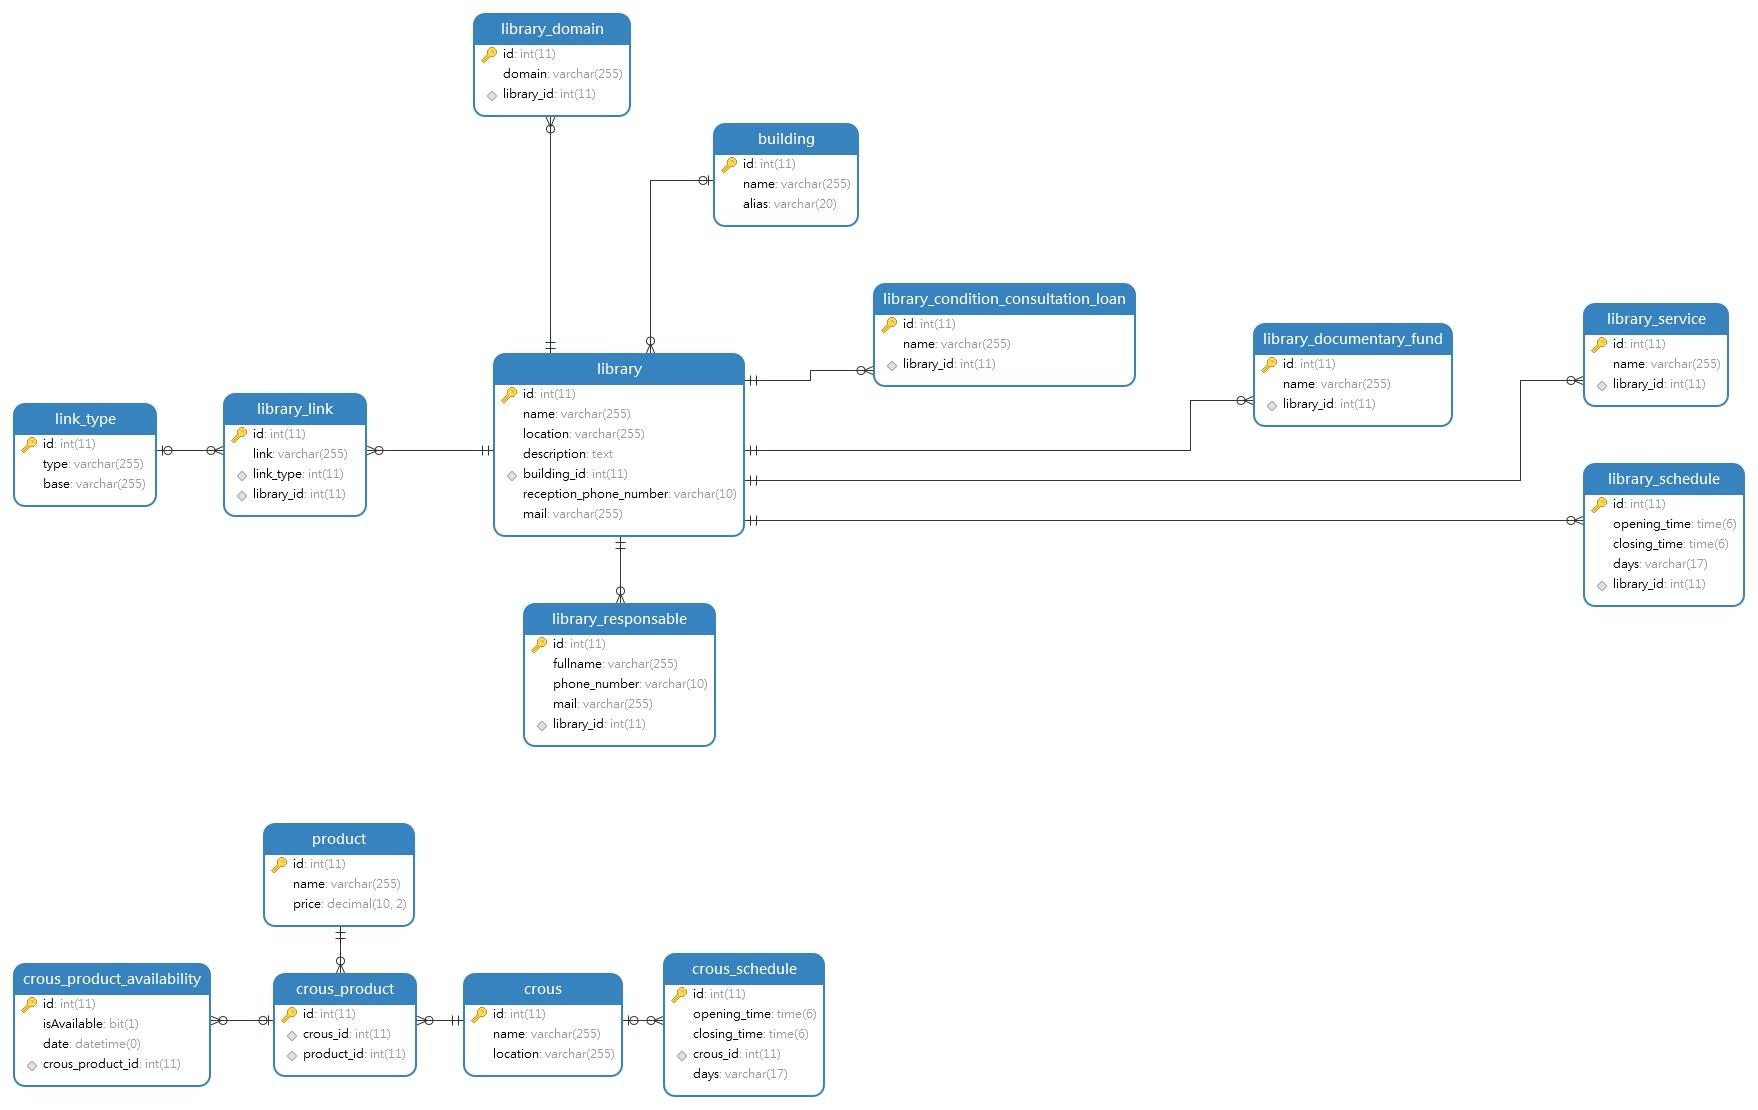
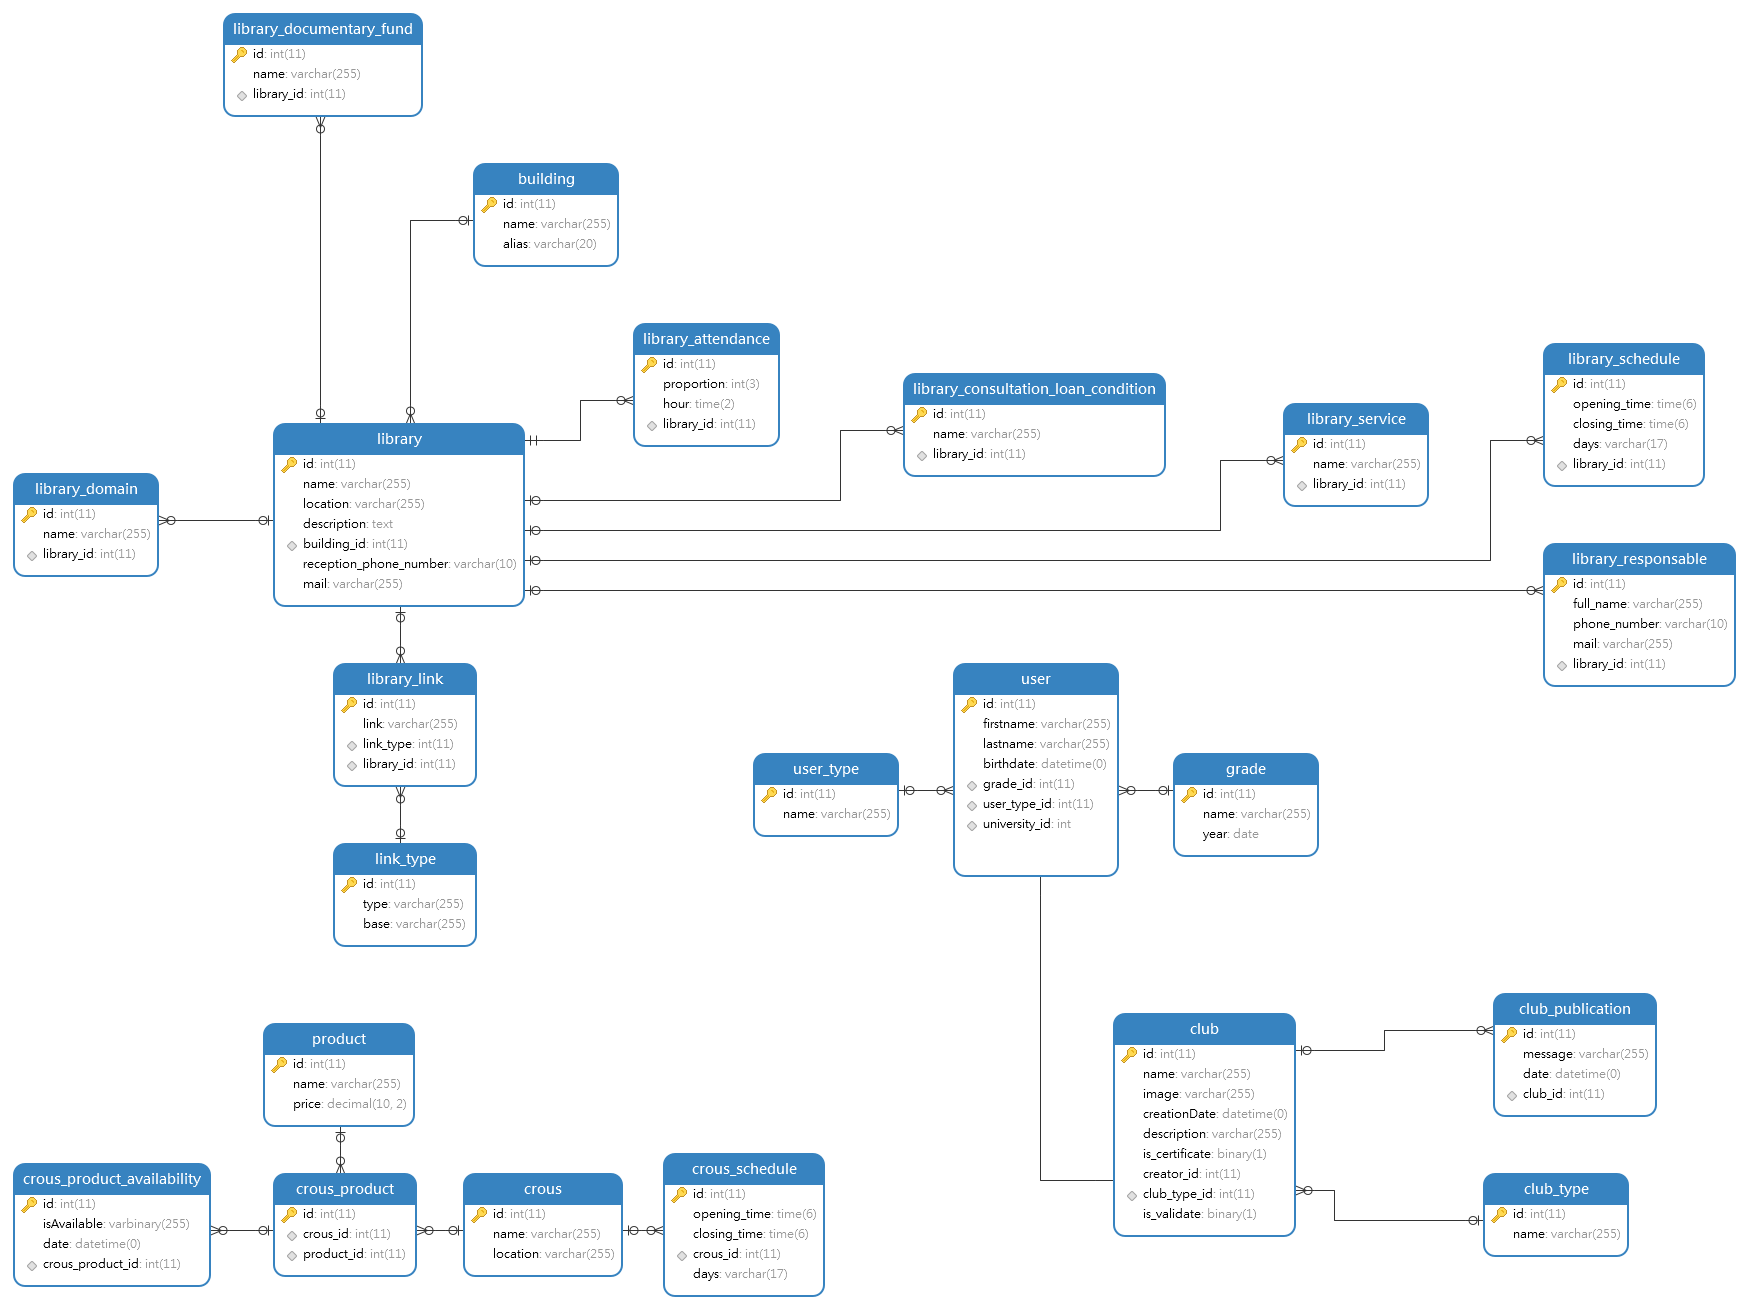
[ADD] - API Connection

diff --git a/app/src/main/java/miage/parisnanterre/fr/mynanterre2/helpers/api/ClubApiHelper.java b/app/src/main/java/miage/parisnanterre/fr/mynanterre2/helpers/api/ClubApiHelper.java
@@ -1,0 +1,42 @@
+package miage.parisnanterre.fr.mynanterre2.helpers.api;
+
+import android.os.Build;
+
+import androidx.annotation.RequiresApi;
+
+import java.util.ArrayList;
+import java.util.Arrays;
+import java.util.List;
+
+import miage.parisnanterre.fr.mynanterre2.api.club.Club;
+
+public class ClubApiHelper extends ApiHelper {
+    private static ClubApiHelper instance = new ClubApiHelper();
+    private List<Club> clubs;
+
+    // Hide default constructor
+    private ClubApiHelper(){
+        clubs = new ArrayList<>();
+    }
+
+    public static ClubApiHelper getInstance()
+    {
+        return instance;
+    }
+
+    @RequiresApi(api = Build.VERSION_CODES.O)
+    public List<Club> getClubs() {
+        synchronized (clubs)
+        {
+            try {
+                String jsonString = getJsonAsString("clubs");
+                clubs = Arrays.asList(gson.fromJson(jsonString, Club[].class));
+            }
+            catch (Exception e)
+            {
+                e.printStackTrace();
+            }
+            return clubs;
+        }
+    }
+}

diff --git a/app/src/main/java/miage/parisnanterre/fr/mynanterre2/api/club/Club.java b/app/src/main/java/miage/parisnanterre/fr/mynanterre2/api/club/Club.java
@@ -1,0 +1,18 @@
+package miage.parisnanterre.fr.mynanterre2.api.club;
+
+import java.sql.Blob;
+import java.time.LocalDateTime;
+
+import miage.parisnanterre.fr.mynanterre2.api.User.User;
+
+public class Club {
+    private int id;
+    private String name;
+    private Blob image;
+    private LocalDateTime creationDate;
+    private String description;
+    private boolean isCertificate;
+    private boolean isValidate;
+    private User Creator;
+    private Type type;
+}

diff --git a/app/src/main/java/miage/parisnanterre/fr/mynanterre2/api/User/User.java b/app/src/main/java/miage/parisnanterre/fr/mynanterre2/api/User/User.java
@@ -1,0 +1,13 @@
+package miage.parisnanterre.fr.mynanterre2.api.User;
+
+import java.time.LocalDateTime;
+
+public class User {
+    private int id;
+    private String lastName;
+    private String firstName;
+    private LocalDateTime birthDate;
+    private Grade grade;
+    private Type type;
+    private int universityId;
+}

diff --git a/app/src/main/java/miage/parisnanterre/fr/mynanterre2/api/club/Publication.java b/app/src/main/java/miage/parisnanterre/fr/mynanterre2/api/club/Publication.java
@@ -1,0 +1,10 @@
+package miage.parisnanterre.fr.mynanterre2.api.club;
+
+import java.time.LocalDateTime;
+
+public class Publication {
+    private int id;
+    private String message;
+    private LocalDateTime date;
+    private Club club;
+}

diff --git a/app/src/main/java/miage/parisnanterre/fr/mynanterre2/api/User/Grade.java b/app/src/main/java/miage/parisnanterre/fr/mynanterre2/api/User/Grade.java
@@ -1,0 +1,10 @@
+package miage.parisnanterre.fr.mynanterre2.api.User;
+
+import java.time.LocalDateTime;
+
+public class Grade {
+    private int id;
+    private String name;
+    private LocalDateTime year;
+}
+

diff --git a/app/src/main/java/miage/parisnanterre/fr/mynanterre2/api/User/Type.java b/app/src/main/java/miage/parisnanterre/fr/mynanterre2/api/User/Type.java
@@ -1,0 +1,6 @@
+package miage.parisnanterre.fr.mynanterre2.api.User;
+
+public class Type {
+    private int id;
+    private String name;
+}

diff --git a/app/src/main/java/miage/parisnanterre/fr/mynanterre2/api/club/Type.java b/app/src/main/java/miage/parisnanterre/fr/mynanterre2/api/club/Type.java
@@ -1,0 +1,6 @@
+package miage.parisnanterre.fr.mynanterre2.api.club;
+
+public class Type {
+    private int id;
+    private String name;
+}
